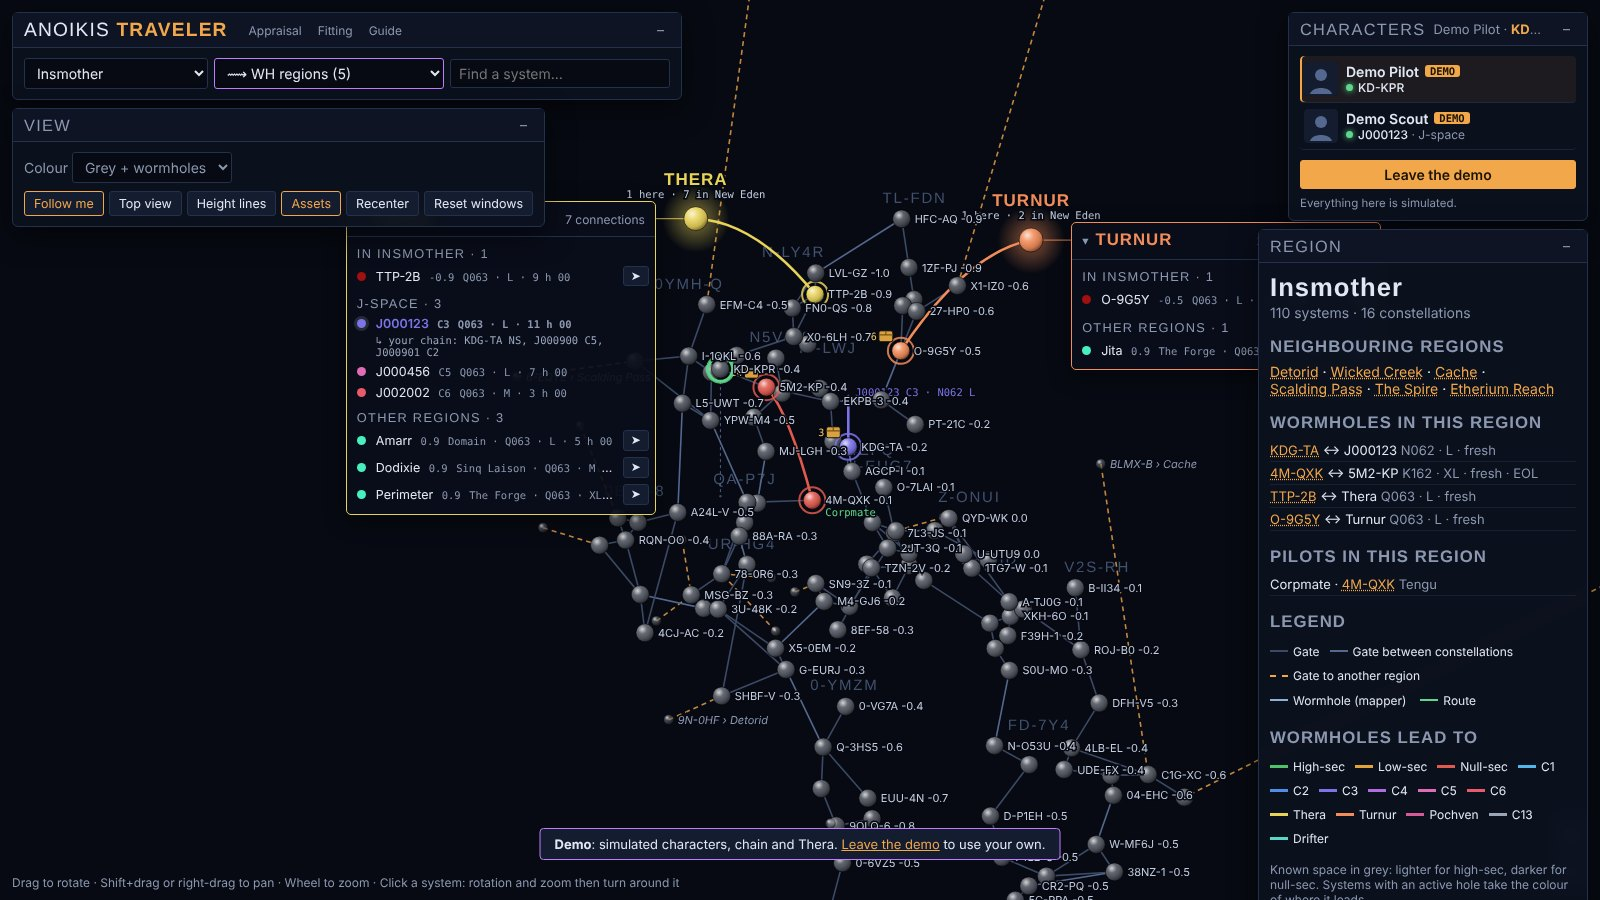
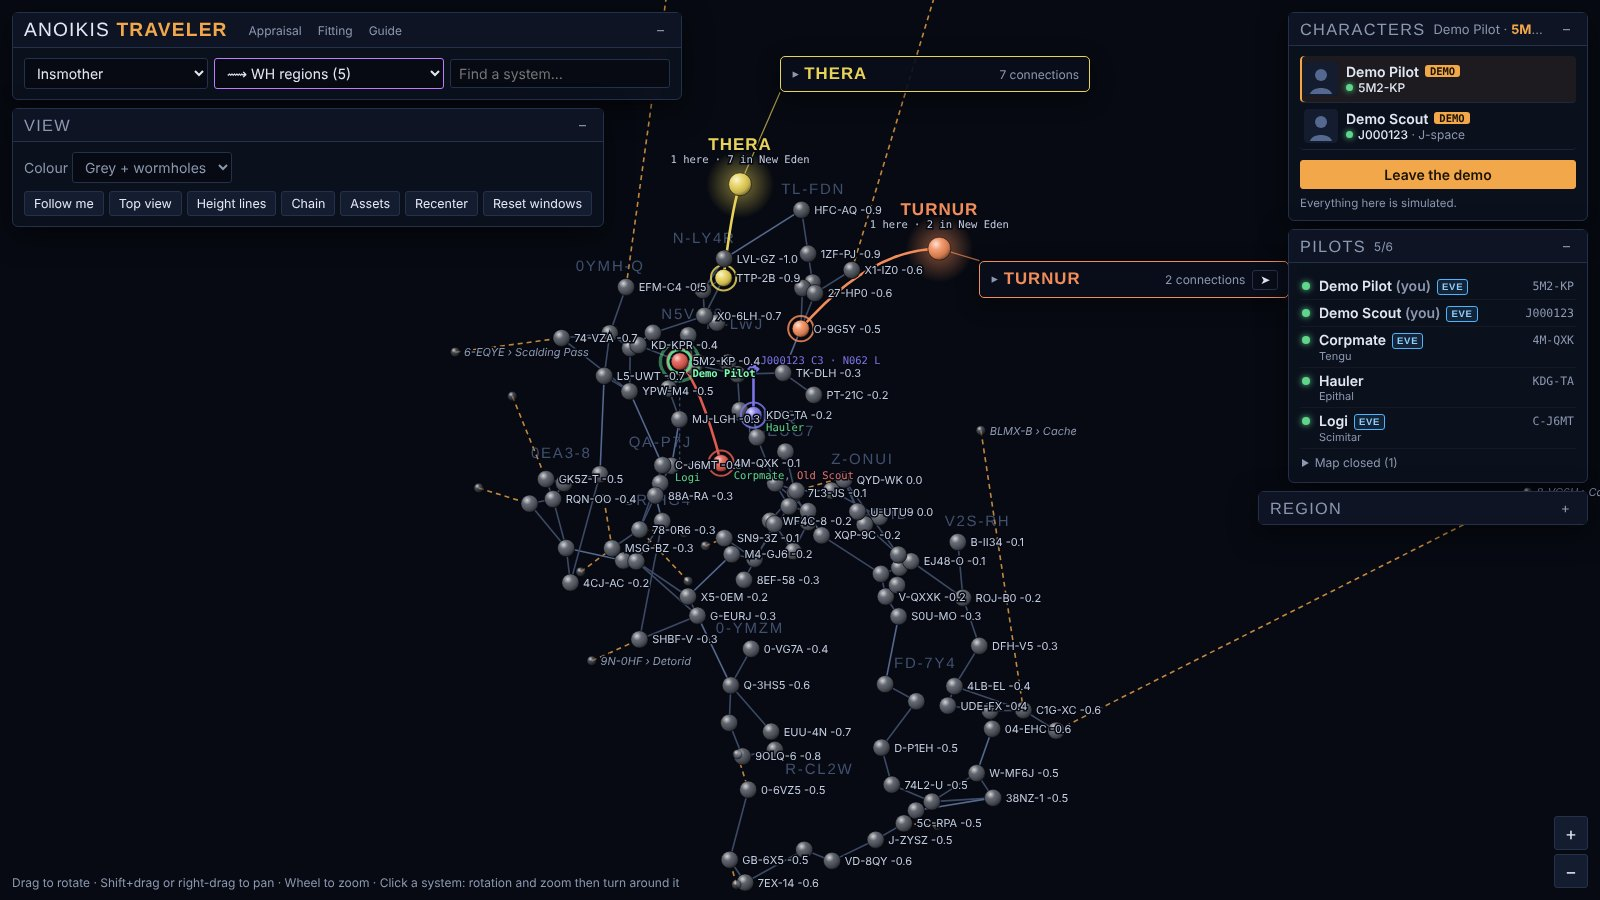
Thera/Turnur hors de la carte ; image principale du guide rangée
- Les sphères Thera/Turnur se placent hors du contour de la région (jamais sur les systèmes),
  leurs étiquettes aussi ; les cartes repliables évitent systèmes, noms et widgets.
- Nouvelle capture principale du guide : fenêtres alignées, Région repliée, étiquettes
  repliées et à l'écart, sans le bandeau démo.

Claude-Session: https://claude.ai/code/session_01VsQN7dD2yvhGokUfwTqYEF

diff --git a/regions/index.html b/regions/index.html
@@ -1222,9 +1222,40 @@ function placeHubs(){
 /* On screen: close to its exits, on a free spot (no system, label or other hub under it), inside the view.
    It keeps its spot while that spot stays free, so it does not jump around while the map turns. */
 const hubOff = {};
+let mapPts = [], mapHull = [];
+function hullOf(ps){
+  const a = ps.map(p => [p.x, p.y]).sort((u, v) => u[0] - v[0] || u[1] - v[1]); if (a.length < 3) return a;
+  const cr = (o, u, v) => (u[0] - o[0]) * (v[1] - o[1]) - (u[1] - o[1]) * (v[0] - o[0]);
+  const lo = [], up = [];
+  for (const p of a){ while (lo.length >= 2 && cr(lo[lo.length - 2], lo[lo.length - 1], p) <= 0) lo.pop(); lo.push(p); }
+  for (let i = a.length - 1; i >= 0; i--){ const p = a[i]; while (up.length >= 2 && cr(up[up.length - 2], up[up.length - 1], p) <= 0) up.pop(); up.push(p); }
+  return lo.slice(0, -1).concat(up.slice(0, -1));
+}
+// distance from a point to the region's outline (negative inside)
+function hullDist(x, y){
+  const h = mapHull; if (h.length < 3) return 1e9;
+  let inside = true, d = Infinity;
+  for (let i = 0; i < h.length; i++){
+    const [x1, y1] = h[i], [x2, y2] = h[(i + 1) % h.length];
+    if ((x2 - x1) * (y - y1) - (y2 - y1) * (x - x1) < 0) inside = false;
+    const L = (x2 - x1) ** 2 + (y2 - y1) ** 2, t = L ? Math.max(0, Math.min(1, ((x - x1) * (x2 - x1) + (y - y1) * (y2 - y1)) / L)) : 0;
+    d = Math.min(d, Math.hypot(x - x1 - t * (x2 - x1), y - y1 - t * (y2 - y1)));
+  }
+  return inside ? -d : d;
+}
+// how far a rectangle reaches into the region (0 = fully outside, with a margin)
+function rectInMap(x, y, w, h, m = 18){
+  let c = 0;
+  for (const p of mapPts) if (p.x > x - m && p.x < x + w + m && p.y > y - m && p.y < y + h + m) c++;
+  const corners = [[x, y], [x + w, y], [x, y + h], [x + w, y + h], [x + w / 2, y + h / 2]];
+  for (const [cx, cy] of corners) if (hullDist(cx, cy) < m) c += 0.6;
+  return c;
+}
 function placeHubsScreen(P){
   const pts = [];
   for (const id in P) if (byId[id]) pts.push(P[id]);
+  const own = []; for (const id in P) if (byId[id] && !byId[id].ext) own.push(P[id]);
+  mapPts = own; mapHull = hullOf(own);
   const taken = [];
   const boxes = [...document.querySelectorAll('.widget')].filter(w => !w.hidden).map(w => w.getBoundingClientRect());   // not under a window
   const cost = (q, exits) => {
@@ -1238,6 +1269,9 @@ function placeHubsScreen(P){
       if (q.x - 60 < p.x && p.x < q.x + 60 && q.y - 46 < p.y && p.y < q.y - 14) c += 600;  // our own label above
     }
     for (const t of taken){ const dx = q.x - t.x, dy = q.y - t.y; if (dx * dx + dy * dy < 120 * 120) c += 8000; }
+    // outside the region, never on top of it (its label sits above the sphere)
+    const hd = Math.min(hullDist(q.x, q.y), hullDist(q.x, q.y - 34), hullDist(q.x - 55, q.y - 34), hullDist(q.x + 55, q.y - 34));
+    if (hd < 40) c += 30000 + (40 - hd) * 200;
     const d = exits.reduce((m, e) => m + Math.hypot(q.x - e.x, q.y - e.y), 0) / exits.length;
     return c + d;
   };
@@ -1250,8 +1284,8 @@ function placeHubsScreen(P){
     const prev = hubOff[hn.h];
     if (prev){ const q = { x:cx + prev.dx, y:cy + prev.dy }, c = cost(q, exits); if (c < 400){ best = q; bc = c; } }
     if (!best){
-      for (const r of [70, 95, 125, 160, 210, 270]) for (let k = 0; k < 24; k++){
-        const a = k / 24 * Math.PI * 2 - Math.PI / 2, q = { x:cx + Math.cos(a) * r, y:cy + Math.sin(a) * r }, c = cost(q, exits);
+      for (const r of [70, 95, 125, 160, 210, 270, 340, 420, 520, 640, 780]) for (let k = 0; k < 36; k++){
+        const a = k / 36 * Math.PI * 2 - Math.PI / 2, q = { x:cx + Math.cos(a) * r, y:cy + Math.sin(a) * r }, c = cost(q, exits);
         if (c < bc){ bc = c; best = q; }
       }
     }
@@ -1335,13 +1369,15 @@ function hubCard(h, p, gLine){
   const fit = (x, y) => { x = Math.max(4, Math.min(W - w - 4, x)); y = Math.max(4, Math.min(H - hh - 4, y));
     let o = 0; for (const r of boxes){ const ix = Math.max(0, Math.min(x + w, r.right) - Math.max(x, r.left)), iy = Math.max(0, Math.min(y + hh, r.bottom) - Math.max(y, r.top)); o += ix * iy; }
     for (const r of cardRects){ const ix = Math.max(0, Math.min(x + w, r.r) - Math.max(x, r.l)), iy = Math.max(0, Math.min(y + hh, r.b) - Math.max(y, r.t)); o += ix * iy * 2; }
-    let cover = 0; for (const q of hubPts) cover += Math.max(0, Math.min(x + w, q.x + 20) - Math.max(x, q.x - 20)) * Math.max(0, Math.min(y + hh, q.y + 20) - Math.max(y, q.y - 20));
-    return { x, y, o:o + cover * 50 }; };
+    let cover = 0; for (const q of hubPts){ cover += Math.max(0, Math.min(x + w, q.x + 20) - Math.max(x, q.x - 20)) * Math.max(0, Math.min(y + hh, q.y + 20) - Math.max(y, q.y - 20));
+      cover += Math.max(0, Math.min(x + w, q.x + 80) - Math.max(x, q.x - 80)) * Math.max(0, Math.min(y + hh, q.y - 14) - Math.max(y, q.y - 52)); }   // its name and count above
+    const dist = Math.hypot(x + w / 2 - p.x, y + hh / 2 - p.y);
+    return { x, y, o:o + cover * 50 + rectInMap(x, y, w, hh) * 4000 + dist * 2 }; };
   const cands = [];
-  for (const dy of [0, 30, 60, 100, -30, -60]){
-    cands.push(fit(side > 0 ? p.x + 40 : p.x - 40 - w, p.y - 18 + dy), fit(side > 0 ? p.x - 40 - w : p.x + 40, p.y - 18 + dy));
+  for (const gap of [40, 90, 160, 260]) for (const dy of [0, 30, 60, 100, -30, -60, -110]){
+    cands.push(fit(side > 0 ? p.x + gap : p.x - gap - w, p.y - 18 + dy), fit(side > 0 ? p.x - gap - w : p.x + gap, p.y - 18 + dy));
   }
-  cands.push(fit(p.x - w / 2, p.y + 30), fit(p.x - w / 2, p.y - 50 - hh));
+  for (const gy of [30, 90, 160]) cands.push(fit(p.x - w / 2, p.y + gy), fit(p.x - w / 2, p.y - gy - 20 - hh));
   cands.forEach((c, i) => c.o += i * 0.5);                // ties: keep the nearest, preferred side
   let { x:x0, y:y0 } = cands.reduce((m, c) => c.o < m.o ? c : m);
   if (hubPos[h]){ x0 = Math.max(4, Math.min(W - w - 4, hubPos[h].x)); y0 = Math.max(4, Math.min(H - hh - 4, hubPos[h].y)); }
